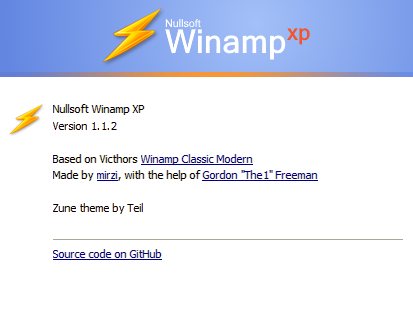
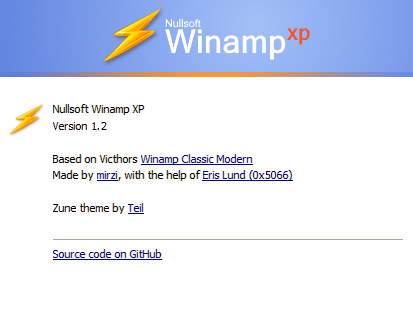
updated about window and skin.xml

Changed region(s): [[0.4939, 0.528, 0.7845, 0.559], [0.2906, 0.6211, 0.3487, 0.6832], [0.2324, 0.3727, 0.2906, 0.4037]]

diff --git a/WinampXP/scripts/about.m b/WinampXP/scripts/about.m
@@ -5,7 +5,7 @@ Author:		Victhor
 #include "lib/std.mi"
 
 Global Group scriptGroup;
-Global Button link1,link2,link3,link4;
+Global Button link1,link2,link3,link4,link5;
 
 
 System.onScriptLoaded ()
@@ -15,6 +15,7 @@ System.onScriptLoaded ()
   link2 = scriptGroup.findObject("link2");
   link3 = scriptGroup.findObject("link3");
   link4 = scriptGroup.findObject("link4");
+  link5 = scriptGroup.findObject("link5");
 }
 
 
@@ -26,18 +27,24 @@ link1.onLeftClick()
 
 link2.onLeftClick()
 {
-	System.navigateUrlBrowser("http://mirzi.6f.sk/");
+	System.navigateUrlBrowser("https://github.com/mirzi1");
 	complete;
 }
 
 link3.onLeftClick()
 {
-	System.navigateUrlBrowser("https://github.com/The1Freeman");
+	System.navigateUrlBrowser("https://github.com/0x5066");
 	complete;
 }
 
 link4.onLeftClick()
 {
 	System.navigateUrlBrowser("https://github.com/mirzi1/WinampXP");
+	complete;
+}
+
+link5.onLeftClick()
+{
+	System.navigateUrlBrowser("https://github.com/teil-aidcx");
 	complete;
 }

diff --git a/README.md b/README.md
@@ -1,6 +1,6 @@
 ![Logo](https://i.imgur.com/u415TZD.png)
 
-A Winamp modern skin based on the looks of Windows XP that aims for accuracy.
+Accurate Windows XP styled skin based on Winamp Classic Modern
 
 Grab the latest release [Here](https://github.com/mirzi1/WinampXP/releases)
 
@@ -10,7 +10,7 @@ Special thanks:
 
 Victhor, the original creator of [Winamp Classic Modern](https://www.deviantart.com/victhor/art/Winamp-Classic-Modern-by-Victhor-805797724), which is the foundation for this project.
 
-[0x5066](https://github.com/0x5066), the man behind [Winamp 2000 SP4](https://github.com/0x5066/Winamp2000SP4) for giving me a huge head start with development, and implementing many more cool features, like a WMP style visualizer.
+[Eris Lund (0x5066)](https://github.com/0x5066), the man behind [Winamp 2000 SP4](https://github.com/0x5066/Winamp2000SP4) for giving me a huge head start with development, and implementing many more cool features, like a WMP style visualizer.
 
 [Teil](https://github.com/teil-aidcx), for making the Zune theme a reality.
 
